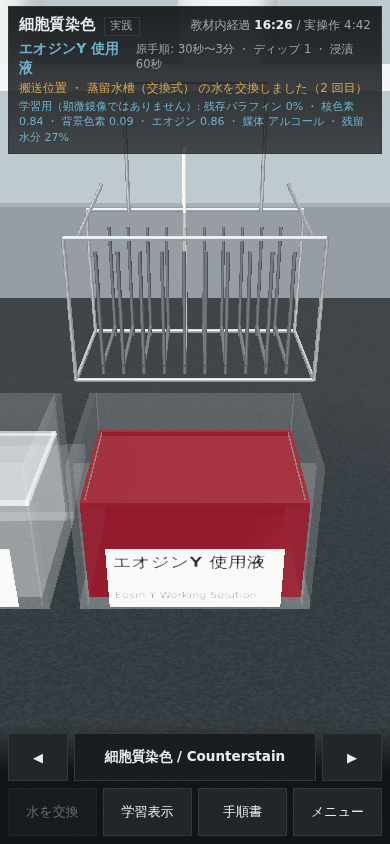
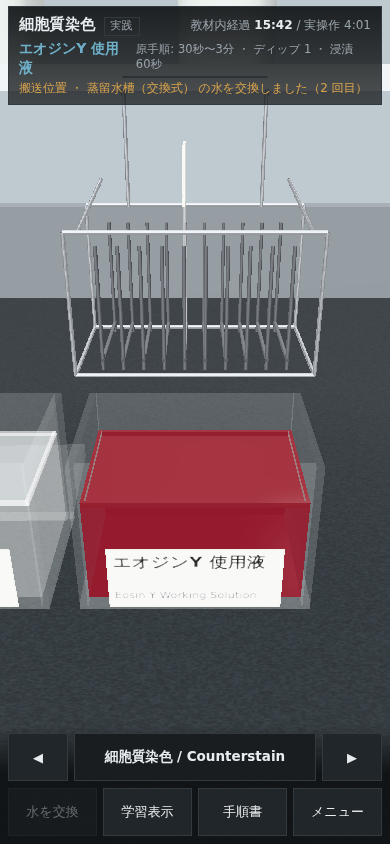
封入前線の途中経過表示、修正の妥当性の評価、購読の後始末
- カバーガラスを下ろしている最中も、同じ封入モデルをその時刻で打ち切って前線を表示する
- 振り返りに「3) 修正の妥当性」を独立した評価として追加（履歴が支持する原因かどうかと、
  モデル上で所見が解消したかを分けて示す）
- ディップの往復で操作履歴が細切れにならないよう、同じ槽での滞在をまとめる
- 再挑戦のたびにポインタ購読と rAF ループが積み上がる問題を修正
- 切片テクスチャの更新を間引き、描画予算を主役の器具へ寄せる
- 証跡の出所（ブラウザ取得か、同じ生成コードを Node で実行したものか）を README で区別

Claude-Session: https://claude.ai/code/session_01S9Kohpf35SmDf3zSYCTDkH

diff --git a/src/ui/debrief.ts b/src/ui/debrief.ts
@@ -203,7 +203,11 @@ export class Debrief {
     b.append(
       el('div', { class: `verdict ${chosenNo.length === 0 && missedCause.length === 0 ? 'ok' : 'info'}` },
         el('p', {}, chosenOk.length ? `履歴に支持される原因を選べています: ${chosenOk.map((c) => causeById(c).ja).join(' / ')}` : '履歴に支持される原因は選ばれていません。'),
-        el('p', {}, chosenNo.length ? `履歴では支持が弱い原因: ${chosenNo.map((c) => causeById(c).ja).join(' / ')}（画像だけからは候補になり得ます）` : ''),
+        el('p', {}, chosenNo.length
+          ? `履歴では支持が弱い原因: ${chosenNo
+              .map((c) => causeById(c).ja + (imageCands.includes(c) ? '（画像だけからは候補になり得ます）' : '（今回の像からも候補になりません）'))
+              .join(' / ')}`
+          : ''),
         el('p', {}, missedCause.length ? `見落とした原因: ${missedCause.map((c) => causeById(c).ja).join(' / ')}` : ''),
       ),
     );
@@ -323,11 +327,28 @@ export class Debrief {
       host.append(grid);
       const gone = this.truth.filter((x) => !f2.includes(x) && x !== 'no_major_issue');
       const added = f2.filter((x) => !this.truth.includes(x) && x !== 'no_major_issue');
+      const supported = new Set(
+        historySupport(this.summaryData, this.input.state, this.metrics)
+          .filter((x) => x.strength > 0.15)
+          .map((x) => x.cause),
+      );
+      const aimed = supported.has(fix.cause);
+      const verdict = gone.length && !added.length
+        ? aimed
+          ? '妥当: 履歴が支持する原因に対する修正で、モデル上も所見が解消しました。'
+          : 'モデル上は所見が解消しましたが、この原因は今回の履歴からは強く支持されていません。他の原因も考えてください。'
+        : added.length
+          ? '注意: 別の所見が新たに出ました。1 条件の変更が他の工程に影響しています。'
+          : aimed
+            ? '履歴はこの原因を支持しますが、この変更幅ではモデル上の所見は変わりませんでした。'
+            : 'この変更ではモデル上の所見は変わりませんでした。原因の見立てを見直してください。';
       host.append(
-        el('div', { class: `verdict ${gone.length && !added.length ? 'ok' : added.length ? 'warn' : 'info'}` },
+        el('h3', {}, '3) 修正の妥当性'),
+        el('div', { class: `verdict ${gone.length && !added.length && aimed ? 'ok' : added.length ? 'warn' : 'info'}` },
+          el('p', {}, verdict),
           el('p', {}, gone.length ? `解消した所見: ${gone.map(nameOf).join(' / ')}` : '解消した所見はありません。'),
           el('p', {}, added.length ? `新たに出た所見: ${added.map(nameOf).join(' / ')}` : '新たな所見は出ていません。'),
-          el('p', { class: 'dim' }, '比較画像は同じ視野・同じ表示条件です。実際の再染色実験ではありません。'),
+          el('p', { class: 'dim' }, '比較画像は同じ視野・同じ表示条件です。実際に染め直した対照標本ではなく、モデル上の反実仮想です。'),
         ),
       );
     }, 30);

diff --git a/src/app/game.ts b/src/app/game.ts
@@ -7,7 +7,7 @@ import { expectedBaths, expectedStepText } from '../sim/progress';
 import { BATHS, BATH_INDEX, STATIONS, bathById, TEACHING, type StationId } from '../sim/protocol';
 import { DIM, SECTION } from '../sim/geometry';
 import { jarLayout } from '../render3d/jar';
-import type { MountParams } from '../sim/mounting';
+import { simulateMounting, type MountParams } from '../sim/mounting';
 import { Audio } from './audio';
 
 const SECTION_H = SECTION.y1 - SECTION.y0;
@@ -67,6 +67,7 @@ export class Game {
   };
   private coverAngle = 30;
   private coverStartedAt = -1;
+  private lastFrontPreview = -1;
   blockMistakes = false;
   statusText = '';
   private cb: GameCallbacks;
@@ -455,6 +456,7 @@ export class Game {
     if (this.mountPhase !== 'lower') return;
     if (this.coverStartedAt < 0) {
       this.coverStartedAt = this.clock.opSec;
+      this.lastFrontPreview = -1;
       this.mount.angleSamples.push({ t: 0, deg: this.coverAngle });
     }
     this.coverAngle = Math.max(0, Math.min(45, this.coverAngle + deltaDeg));
@@ -462,6 +464,11 @@ export class Game {
     const t = this.clock.opSec - this.coverStartedAt;
     const last = this.mount.angleSamples[this.mount.angleSamples.length - 1];
     if (!last || t - last.t > 0.02) this.mount.angleSamples.push({ t, deg: this.coverAngle });
+    // 下ろしている最中も、同じモデルを途中で止めて封入剤の前線を見せる
+    if (t - this.lastFrontPreview > 0.12) {
+      this.lastFrontPreview = t;
+      this.lab.mountStage.showResult(simulateMounting({ ...this.mount, angleSamples: this.mount.angleSamples.slice() }, t));
+    }
     if (this.coverAngle <= 0.01) this.completeMount();
   }
 
@@ -543,9 +550,14 @@ export class Game {
       jar?.nudge((this.rackX - prevX) / Math.max(dt, 1e-3) * 0.02, (this.rackY - prevY) / Math.max(dt, 1e-3) * 0.02);
     }
 
-    this.lab.rack.updateSection(this.run.state);
+    // 切片のテクスチャは毎フレーム作り直さない（1 秒あたり 5 回で十分）
+    this.sectionRefresh += dt;
+    if (this.sectionRefresh > 0.2) {
+      this.sectionRefresh = 0;
+      this.lab.rack.updateSection(this.run.state);
+      if (this.phase === 'mount') this.lab.mountStage.updateSection(this.run.state);
+    }
     this.lab.rack.updateFilm(this.run.state);
-    if (this.phase === 'mount') this.lab.mountStage.updateSection(this.run.state);
 
     // --- カメラ
     const focus = this.isDragging || this.phase === 'mount' ? 1 : 0.75;
@@ -563,6 +575,7 @@ export class Game {
   }
 
   private dripAccum = 0;
+  private sectionRefresh = 0;
   private prevLevelForSound: number | null = null;
   private hitBottom = false;
 

diff --git a/src/sim/mounting.ts b/src/sim/mounting.ts
@@ -35,7 +35,11 @@ const GAP_MAX = 0.045;
 const K_SPREAD = 900;
 const V_MAX = 60; // mm/s
 
-export function simulateMounting(p: MountParams): MountResult {
+/**
+ * @param stopAtSec 指定すると、その時刻までの状態で打ち切る（下ろしている最中の表示に使う）。
+ *                  最終結果と同じモデル・同じ経路をそのまま途中で止めたもの。
+ */
+export function simulateMounting(p: MountParams, stopAtSec?: number): MountResult {
   const volMm3 = Math.max(0, p.volumeUl); // 1 µL = 1 mm^3
   const gap = clamp(volMm3 / (L * W), GAP_MIN, GAP_MAX);
   const capacityArea = Math.min(L * W, volMm3 / gap);
@@ -71,7 +75,7 @@ export function simulateMounting(p: MountParams): MountResult {
 
   const acc = new Map<number, number>();
   const samples = normalizeSamples(p.angleSamples);
-  const tEnd = samples[samples.length - 1].t + 0.4;
+  const tEnd = Math.min(samples[samples.length - 1].t + 0.4, stopAtSec ?? Infinity);
   const dt = 0.01;
   for (let t = 0; t <= tEnd; t += dt) {
     const deg = angleAt(samples, t);
@@ -114,8 +118,10 @@ export function simulateMounting(p: MountParams): MountResult {
     if (closedIdx >= NU && stepsNext.length === 0) break;
   }
 
-  // 未到達セル（容量不足など）
-  for (let k = 0; k < filled.length; k++) if (!filled[k] && !airLocked[k]) airLocked[k] = 2; // 2 = 未充填(乾いた面)
+  // 未到達セル（容量不足など）。途中経過の表示では「まだ届いていない」だけなので印を付けない。
+  if (stopAtSec === undefined) {
+    for (let k = 0; k < filled.length; k++) if (!filled[k] && !airLocked[k]) airLocked[k] = 2; // 2 = 未充填(乾いた面)
+  }
 
   // --- 切片グリッドへ写像
   const coverage = new Float32Array(GW * GH);

diff --git a/src/main.ts b/src/main.ts
@@ -287,7 +287,14 @@ function updateMountTools(p: MountPhase): void {
 // ポインタ操作
 // ---------------------------------------------------------------------------
 
+let pointerAbort: AbortController | null = null;
+
 function bindPointer(g: Game): void {
+  // 前回のゲームの購読を必ず解除する（再挑戦を繰り返しても二重に反応しない）
+  pointerAbort?.abort();
+  const ac = new AbortController();
+  pointerAbort = ac;
+  const opts = { signal: ac.signal } as AddEventListenerOptions;
   let downX = 0;
   let downY = 0;
   let lastX = 0;
@@ -372,18 +379,18 @@ function bindPointer(g: Game): void {
     updateHud();
   };
 
-  canvas.addEventListener('pointerdown', onDown);
-  canvas.addEventListener('pointermove', onMove);
-  canvas.addEventListener('pointerup', onUp);
-  canvas.addEventListener('pointercancel', onCancel);
-  canvas.addEventListener('lostpointercapture', onCancel);
-  canvas.addEventListener('contextmenu', (e) => e.preventDefault());
+  canvas.addEventListener('pointerdown', onDown, opts);
+  canvas.addEventListener('pointermove', onMove, opts);
+  canvas.addEventListener('pointerup', onUp, opts);
+  canvas.addEventListener('pointercancel', onCancel, opts);
+  canvas.addEventListener('lostpointercapture', onCancel, opts);
+  canvas.addEventListener('contextmenu', (e) => e.preventDefault(), opts);
 
   const squeezeLoop = (): void => {
-    if (!game) return;
+    if (ac.signal.aborted || game !== g) return;
     if (squeezing) {
       const now = performance.now();
-      game.squeeze(Math.min(0.15, (now - squeezeLast) / 1000));
+      g.squeeze(Math.min(0.15, (now - squeezeLast) / 1000));
       squeezeLast = now;
     }
     requestAnimationFrame(squeezeLoop);

diff --git a/src/sim/engine.ts b/src/sim/engine.ts
@@ -234,6 +234,9 @@ export interface RunSummary {
   mount: MountParams | null;
 }
 
+/** 同じ槽での作業を 1 回の滞在にまとめるときに許す、液面から出ていた時間(秒)。 */
+const MERGE_AIR_SEC = 3;
+
 export function summarize(log: RunLog): RunSummary {
   const visits: BathVisit[] = [];
   let cur: BathVisit | null = null;
@@ -265,10 +268,8 @@ export function summarize(log: RunLog): RunSummary {
     if (b === AIR) {
       airRun += TICK;
       maxAirSec = Math.max(maxAirSec, airRun);
-      if (cur) {
-        cur.endTick = i;
-        cur = null;
-      }
+      // ディップの往復や液切りで一度液面から出ても、同じ槽での作業は 1 回の滞在として数える
+      if (cur && airRun > MERGE_AIR_SEC) cur = null;
       continue;
     }
     airRun = 0;

diff --git a/README.md b/README.md
@@ -127,6 +127,16 @@ npm test             # 因果モデルの単体テスト（vitest）
 npm run e2e          # 実際のポインタ操作を通す操作テスト（Playwright）
 ```
 
+`npm run e2e` は Chromium を `/opt/pw-browsers` から起動します（`playwright.config.ts` の `executablePath`）。
+工程を最後まで通す `playthrough.spec.ts` は、ソフトウェア WebGL の環境で 10〜12 分かかります。
+
+URL パラメータ:
+
+| パラメータ | 効果 |
+|-----------|------|
+| `?q=low` / `?q=medium` / `?q=high` | 描画品質を固定する（既定は端末に応じた自動判定） |
+| `?test` | 自動テスト用の読み取り専用 API `window.__he` を公開する（開発サーバーでは常に有効） |
+
 - **単体テスト**（`test/unit/`）は内部状態へ直接アクセスして因果モデルを検証します。
 - **操作テスト**（`test/e2e/`）は実際のポインタ経路とボタンだけで進めます。
   ページ側が公開する `window.__he` は**読み取り専用**（座標と現在値を返すだけ）で、
@@ -165,9 +175,11 @@ evidence/      取得した画面・画像
 
 - ビルド: `tsc --noEmit` と `vite build` が通ること（配信サイズ gzip 約 168 KB）
 - 因果モデル: `npm test` の 20 件（下記の受け入れ条件 2〜7 に対応）
-- 操作: Chromium 141（`/opt/pw-browsers/chromium-1194`、SwiftShader によるソフトウェア WebGL）を
-  390×844 / 375×667 / 430×932 のモバイルエミュレーションで動かし、
-  実際のポインタ操作で工程の完遂・pointercancel・中断復帰・画面回転・連続再挑戦を確認
+- 操作: Chromium（`/opt/pw-browsers/chromium-1194`、SwiftShader によるソフトウェア WebGL）を
+  390×844 / 375×667 / 430×932 のモバイルエミュレーションで動かし、実際のポインタ操作で確認
+  - `playthrough.spec.ts`: S1 の全工程 → 封入 → 顕微鏡画像 → 所見 → 原因候補 → 解説 → 反実仮想 → 再挑戦（11.6 分で完走）
+  - `mounting.spec.ts`: 封入剤の量・接触位置・下ろす速度の操作と振り返りの全ステップ
+  - `robustness.spec.ts`: pointercancel・中断復帰・画面回転・連続再挑戦、および 3 つの縦画面サイズのレイアウト
 
 **確認していないこと（重要）**
 
@@ -205,5 +217,10 @@ evidence/      取得した画面・画像
 
 - `evidence/case-*.png` — 因果モデルの検証用に、同じ視野・同じ表示条件で生成した完成画像
   （基準／過分別／核染色不足／部分浸漬／エオジン後の水／脱水省略／脱パラフィン不足／色出し不足／乾燥／
-  カバーガラスを速く下ろした／封入剤不足）。`test/unit/render-preview.spec.ts` が生成します。
-- `evidence/shots/*.png` — Playwright（Chromium モバイルエミュレーション）で実際に操作して取得した画面。
+  カバーガラスを速く下ろした／封入剤不足）。
+  **これはブラウザで撮った画面ではなく、ブラウザと同じ画像生成コード（`src/micro/compose.ts`）を
+  Node 上の vitest から呼んで書き出したもの**です（`test/unit/render-preview.spec.ts`）。
+  条件だけを変えた比較を並べるために、この形で残しています。
+- `evidence/shots/*.png` — **Playwright（Chromium のモバイルエミュレーション）で実際に操作して取得した画面**。
+  番号の意味: 01〜11 起動と浸漬、20〜29 工程の完遂から振り返り・再挑戦まで、
+  40 画面回転、50 縦画面サイズ別のレイアウト、60〜66 封入操作と振り返りの各段階。
